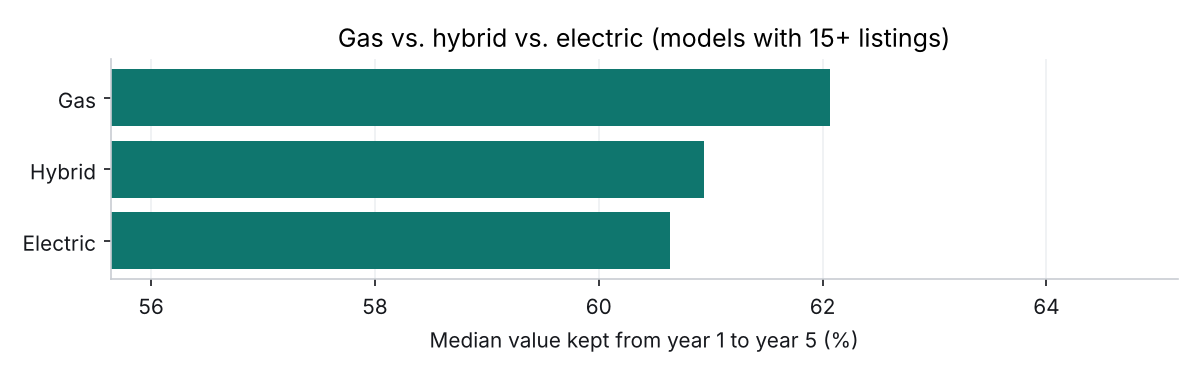
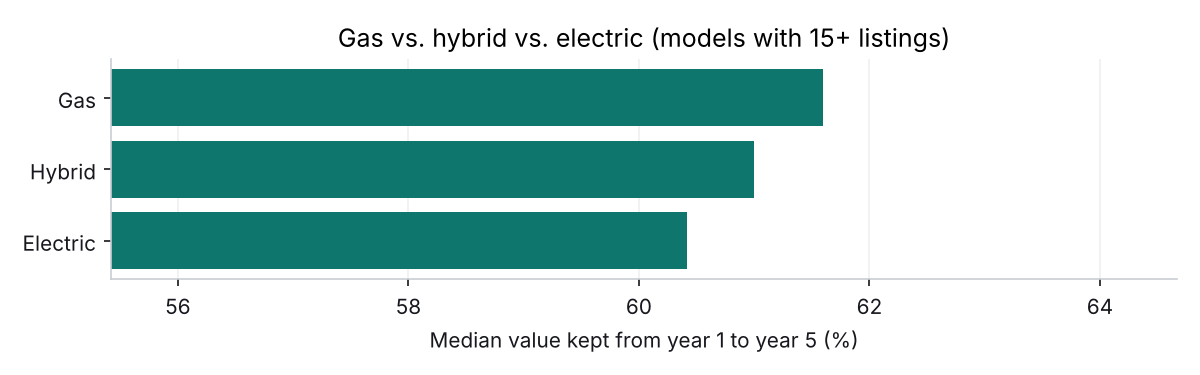
Treat a missing trim as the base trim, per review
An independent review found that missing trims were mishandled. AutoTrader
often lists a base car's trim as just 'AWD' or '4MATIC Sedan', which
normalizes to no trim, and that group was ignored:

- The default curve skipped it even when it was the most common, so a
  Lexus RX 350 (92 of 138 unlisted) used 'Premium', and a Land Cruiser
  used a single '1958' listing. typical_specs now counts it and can pick
  it; --trim base selects it.
- New-car MSRPs with no trim were dropped by groupby, so models like the
  Mercedes GLC 300 lost their real MSRP. Keep them (dropna=False) and
  match missing to missing.
- Marketcheck's 'Base' and trims that are only symbols ('4MATIC+' -> '+')
  also count as base now.
- prepare_features no longer crashes on an all-NaN float trim column.
- --trim '' is an error instead of being ignored.

Re-ran clean, train and analyze: average error $2,530, Porsche Cayenne
and BMW X5 now worst. README and findings updated to match, and an
unverifiable side-by-side number was removed. 7 new tests.

Claude-Session: https://claude.ai/code/session_01EFFq9JD9q8jUQi8YqvmX4s

diff --git a/src/depreciation.py b/src/depreciation.py
@@ -54,33 +54,55 @@ def find_model(listings: pd.DataFrame, make: str, model: str) -> tuple[str, str]
     raise ValueError(f"No listings for {make} {model}.{hint}")
 
 
+BASE = "Base"  # how a missing (base or unlisted) trim is shown and typed
+
+
+def trim_label(trim: str | None) -> str:
+    return BASE if pd.isna(trim) else trim
+
+
+def same_trim(column: pd.Series, trim: str | None) -> pd.Series:
+    """Rows with this trim. None matches base / unlisted trims."""
+    return column.isna() if pd.isna(trim) else column == trim
+
+
 def trims_for(listings: pd.DataFrame, make: str, model: str) -> pd.Series:
-    """How many listings each trim of a model has, most common first."""
-    cars = listings[(listings["make"] == make) & (listings["model"] == model)]
-    return cars["trim"].value_counts()
+    """How many listings each trim of a model has, most common first.
 
-
-def find_trim(listings: pd.DataFrame, make: str, model: str, trim: str) -> str:
-    """Match what the user typed ("xle") to a trim name in the data ("XLE")."""
-    trims = trims_for(listings, make, model)
-    for name in trims.index:
-        if name.lower() == trim.lower():
-            return name
-    options = ", ".join(f"{name} ({count})" for name, count in trims.head(12).items())
-    raise ValueError(f"No {make} {model} listings with trim {trim}. "
-                     f"Trims with the most listings: {options or 'none recorded'}")
-
-
-def typical_specs(listings: pd.DataFrame, make: str, model: str, trim: str | None = None) -> dict:
-    """The most common trim, body, drivetrain and fuel type for a model
-    (e.g. RAV4 -> XLE, SUV, AWD, Gas). Pass `trim` to describe that trim instead.
+    Base / unlisted trims are counted too, under the name "Base".
     """
     cars = listings[(listings["make"] == make) & (listings["model"] == model)]
-    if trim is None:
-        common = cars["trim"].mode()
-        trim = common.iloc[0] if not common.empty else None
-    if trim is not None:
-        cars = cars[cars["trim"] == trim]
+    return cars["trim"].fillna(BASE).value_counts()
+
+
+def find_trim(listings: pd.DataFrame, make: str, model: str, trim: str) -> str | None:
+    """Match what the user typed ("xle") to a trim name in the data ("XLE").
+
+    "base" means the base / unlisted trim and returns None.
+    """
+    trims = trims_for(listings, make, model)
+    for name in trims.index:
+        if name.lower() == trim.strip().lower():
+            return None if name == BASE else name
+    options = ", ".join(f"{name} ({count})" for name, count in trims.head(12).items())
+    raise ValueError(f"No {make} {model} listings with trim {trim}. "
+                     f"Trims with the most listings: {options}")
+
+
+MOST_COMMON = object()  # default for typical_specs: pick the model's most common trim
+
+
+def typical_specs(listings: pd.DataFrame, make: str, model: str, trim=MOST_COMMON) -> dict:
+    """The most common trim, body, drivetrain and fuel type for a model
+    (e.g. RAV4 -> XLE, SUV, AWD, Gas). Pass `trim` to describe that trim instead
+    (None = base / unlisted).
+    """
+    cars = listings[(listings["make"] == make) & (listings["model"] == model)]
+    if trim is MOST_COMMON:
+        # A base / unlisted trim can be the most common one (most Lexus RX 350s).
+        trim = cars["trim"].value_counts(dropna=False).index[0]
+        trim = None if pd.isna(trim) else trim
+    cars = cars[same_trim(cars["trim"], trim)]
     specs = {"make": make, "model": model, "trim": trim}
     for column in ("body", "drivetrain", "fuel"):
         specs[column] = cars[column].mode().iloc[0]
@@ -106,6 +128,7 @@ def typical_first_year_value(listings: pd.DataFrame, new_prices: pd.DataFrame) -
 
     Used to estimate the new price for trims with no new listings in the data.
     """
+    # Base / unlisted trims match each other here: pandas joins missing keys together.
     nearly_new = listings[listings["age"] <= 1].merge(new_prices, on=["make", "model", "trim"])
     return float((nearly_new["value"] / nearly_new["new_price"]).median())
 
@@ -119,7 +142,7 @@ def new_price_for(new_prices: pd.DataFrame, curve: pd.DataFrame, specs: dict,
     """
     match = new_prices[(new_prices["make"] == specs["make"])
                        & (new_prices["model"] == specs["model"])
-                       & (new_prices["trim"] == specs["trim"])]
+                       & same_trim(new_prices["trim"], specs["trim"])]
     if not match.empty:
         return float(match.iloc[0]["new_price"]), "average MSRP of new listings of this trim"
     estimate = float(curve["value"].iloc[0]) / first_year_share

diff --git a/src/predict.py b/src/predict.py
@@ -17,6 +17,7 @@ from src.depreciation import (
     new_price_for,
     ownership_cost,
     sweet_spot,
+    trim_label,
     trims_for,
     typical_first_year_value,
     typical_specs,
@@ -45,13 +46,14 @@ def main():
     listings, new_prices, bundle = load_data()
     try:
         make, model = find_model(listings, args.make, args.model)
-        trim = find_trim(listings, make, model, args.trim) if args.trim else None
+        if args.trim is not None:
+            trim = find_trim(listings, make, model, args.trim)
     except ValueError as error:
         parser.exit(1, f"{error}\n")
 
     yearly_miles = args.miles if args.miles is not None else miles_per_year(listings)
-    typical = typical_specs(listings, make, model)
-    specs = typical_specs(listings, make, model, trim) if trim else typical
+    specs = (typical_specs(listings, make, model, trim) if args.trim is not None
+             else typical_specs(listings, make, model))
     curve = value_curve(bundle, specs, yearly_miles)
     new_price, source = new_price_for(new_prices, curve, specs,
                                       typical_first_year_value(listings, new_prices))
@@ -61,12 +63,13 @@ def main():
     n_listings = ((listings["make"] == make) & (listings["model"] == model)).sum()
     trims = trims_for(listings, make, model)
 
-    name = f"{make} {model} {specs['trim']}" if specs["trim"] else f"{make} {model}"
-    print(f"\n{name}  ({specs['body']}, {specs['drivetrain']}, {specs['fuel']})")
-    trim_note = f", {trims.get(specs['trim'], 0)} of them this trim" if specs["trim"] else ""
-    print(f"Based on {n_listings} listings{trim_note}, {yearly_miles:,.0f} miles/year")
-    if not args.trim and len(trims) > 1:
-        others = ", ".join(t for t in trims.index[:6] if t != specs["trim"])
+    label = trim_label(specs["trim"])
+    n_trim = trims.get(label, 0)
+    print(f"\n{make} {model} {label}  ({specs['body']}, {specs['drivetrain']}, {specs['fuel']})")
+    print(f"Based on {n_listings} listings, {n_trim} of them this trim, "
+          f"{yearly_miles:,.0f} miles/year")
+    if args.trim is None and len(trims) > 1:
+        others = ", ".join(t for t in trims.index[:6] if t != label)
         print(f"Most common trim shown. Others: {others}  (use --trim)")
     print(f"New price: ${new_price:,.0f}  ({source})\n")
 
@@ -88,7 +91,7 @@ def main():
     print(f"  {buy_spot:<20}${cost_spot:,.0f}/yr  (saves ${cost_new - cost_spot:,.0f}/yr)")
     if n_listings < 40:
         print("\nNote: fewer than 40 listings for this model, so treat the curve as rough.")
-    elif args.trim and trims.get(specs["trim"], 0) < 15:
+    elif args.trim is not None and n_trim < 15:
         print("\nNote: fewer than 15 listings for this trim, so its curve leans on similar "
               "cars and is rougher than the model's.")
 

diff --git a/tests/test_depreciation.py b/tests/test_depreciation.py
@@ -73,8 +73,18 @@ def test_typical_specs_work_when_no_trim_is_recorded():
     assert typical_specs(listings, "Honda", "Civic")["trim"] is None
 
 
+def test_typical_specs_can_pick_the_base_trim_when_it_is_most_common():
+    # Two Civics: one without a listed trim, one EX. Add another base Civic so base wins.
+    listings = pd.concat([LISTINGS, LISTINGS.iloc[[4]]])
+    assert typical_specs(listings, "Honda", "Civic")["trim"] is None
+
+
 def test_find_trim_ignores_capitalization():
     assert find_trim(LISTINGS, "Toyota", "RAV4", "xle") == "XLE"
+
+
+def test_find_trim_base_means_no_listed_trim():
+    assert find_trim(LISTINGS, "Honda", "Civic", "base") is None
 
 
 def test_find_trim_lists_the_trims_it_does_have():
@@ -120,6 +130,19 @@ def test_new_price_is_estimated_when_there_are_no_new_listings():
     price, source = new_price_for(new_prices, curve, specs, first_year_share=0.8)
     assert price == pytest.approx(30_000)  # $24,000 at age 1 is 80% of $30,000
     assert "estimated" in source
+
+
+def test_base_trim_uses_the_base_trim_msrp():
+    new_prices = pd.DataFrame({"make": ["Honda", "Honda"], "model": ["Civic", "Civic"],
+                               "trim": [None, "EX"], "new_price": [25_000, 30_000]})
+    curve = pd.DataFrame({"age": [1, 2], "value": [20_000, 18_000]})
+    specs = {"make": "Honda", "model": "Civic", "trim": None}
+    assert new_price_for(new_prices, curve, specs, first_year_share=0.8)[0] == 25_000
+
+
+def test_value_curve_works_for_the_base_trim():
+    specs = typical_specs(LISTINGS, "Honda", "Civic", trim=None)
+    assert value_curve(BUNDLE, specs, yearly_miles=12_000)["value"].is_monotonic_decreasing
 
 
 def test_typical_first_year_value_compares_nearly_new_cars_to_msrp():

diff --git a/src/clean.py b/src/clean.py
@@ -57,12 +57,18 @@ NOT_TRIM = re.compile(
 
 
 def simplify_trim(value) -> str | None:
-    """Trim name without drivetrain or body words ("XLE AWD" -> "XLE"). None if nothing is left."""
+    """Trim name without drivetrain or body words ("XLE AWD" -> "XLE").
+
+    None means base or unlisted: AutoTrader often lists a base car's trim as just "AWD"
+    or "4MATIC Sedan", and Marketcheck calls it "Base", so all of those become None.
+    """
     if not isinstance(value, str):
         return None
     text = NOT_TRIM.sub(" ", value)
     text = re.sub(r"\s+", " ", text).strip(" -")
-    return text or None
+    if text.lower() == "base" or not re.search(r"[A-Za-z0-9]", text):
+        return None
+    return text
 
 
 def simplify_fuel(value) -> str:
@@ -88,7 +94,8 @@ def clean_autotrader(raw: pd.DataFrame) -> tuple[pd.DataFrame, pd.DataFrame]:
     new = raw[(raw["listingType"] == "New") & (raw["msrp"] > 0)]
     new_prices = (
         new.assign(trim=new["trim"].map(simplify_trim))
-        .groupby(["makeName", "modelName", "trim"])["msrp"]
+        # dropna=False keeps base / unlisted trims (None), which are often the most common.
+        .groupby(["makeName", "modelName", "trim"], dropna=False)["msrp"]
         .agg(new_price="median", new_listings="count")
         .reset_index()
         .rename(columns={"makeName": "make", "modelName": "model"})

diff --git a/tests/test_pipeline.py b/tests/test_pipeline.py
@@ -34,6 +34,7 @@ def test_fuel_labels_from_both_sources_match(raw, expected):
     ("XLE", "XLE"), ("XLE AWD", "XLE"), ("SE Sedan 4D", "SE"), ("4MATIC Coupe", None),
     ("AWD 2.5 S", "2.5 S"), ("SH-AWD", "SH"), ("Unlimited Rubicon 4xe", "Unlimited Rubicon 4xe"),
     ("xDrive40i", "xDrive40i"), ("FWD", None), (None, None),
+    ("Base", None), ("4MATIC+", None),  # base trims and leftover symbols mean "no trim"
 ])
 def test_trim_drops_drivetrain_and_body_words(raw, expected):
     assert simplify_trim(raw) == expected
@@ -63,6 +64,15 @@ def test_rare_models_and_trims_become_other():
     # A missing trim stays missing instead of being lumped in with rare trims.
     assert features["trim"].tolist()[:2] == ["SE", "Other"]
     assert pd.isna(features["trim"].iloc[2])
+
+
+def test_features_handle_a_trim_column_with_no_trims_at_all():
+    cars = pd.DataFrame({
+        "make": ["Toyota"], "model": ["Camry"], "trim": [float("nan")], "body": ["Sedan"],
+        "drivetrain": ["FWD"], "fuel": ["Gas"], "age": [3], "mileage": [30e3],
+    })
+    features = prepare_features(cars, known_models={"Toyota Camry"}, known_trims={"SE"})
+    assert pd.isna(features["trim"].iloc[0])
 
 
 def test_sweet_spot_is_after_the_steep_early_drop():

diff --git a/src/features.py b/src/features.py
@@ -37,6 +37,7 @@ def prepare_features(cars: pd.DataFrame, known_models: set[str],
     A missing trim stays missing (the model treats it as its own category).
     """
     features = cars[FEATURES].copy()
+    features["trim"] = features["trim"].astype(object)  # an all-missing column could be float
     full_name = cars["make"] + " " + cars["model"]
     features.loc[~full_name.isin(known_models), "model"] = "Other"
     rare_trim = features["trim"].notna() & ~features["trim"].isin(known_trims)

diff --git a/README.md b/README.md
@@ -19,13 +19,13 @@ command-line tool to look up any car.
   its new price on average, so roughly 20% disappears in year one.
 - **Buying at the sweet spot cut the yearly cost of ownership roughly in half** for 5 of
   the 6 example models. For a
-  Toyota Camry kept 3 years, you'd lose about $4,500/year buying new vs. about
-  $2,400/year buying it 2 years old.
+  Toyota Camry kept 3 years, you'd lose about $4,400/year buying new vs. about
+  $2,300/year buying it 2 years old.
 - **Toyota holds value best.** Tacoma, Corolla and 4Runner keep 75-78% of their
-  value from year 1 to year 5. **Luxury SUVs lose the most**: a Porsche Macan or Cayenne
-  keeps 46%.
-- **Electric cars depreciate about the same as gas cars** (61% vs. 62% kept from year 1
-  to 5). Only 14 electric models had enough data, so this is a weak signal either way.
+  value from year 1 to year 5. **Luxury SUVs lose the most**: a Porsche Cayenne keeps 46%
+  and a BMW X5 47%.
+- **Electric cars depreciate a little faster than gas cars** (60% vs. 62% kept from year 1
+  to 5). Only 14 electric models had enough data, so this is a weak signal.
 
 ![Depreciation curves](reports/figures/example_curves.png)
 
@@ -43,10 +43,10 @@ mileage. Tested on 3,294 cars it never saw during training:
 |---|---|---|---|
 | Median guess (baseline) | $13,862 | 38.4% | -0.05 |
 | Linear regression (baseline) | $3,433 | 7.9% | 0.89 |
-| **Gradient boosting** | **$2,542** | **5.6%** | **0.93** |
+| **Gradient boosting** | **$2,530** | **5.6%** | **0.93** |
 
 Adding **trim level** (a base Camry LE vs. a sporty XSE, or an F150 XL vs. a Raptor) cut the
-average error by 28%, from $3,532 to $2,542, and put 47% of estimates inside Kelley Blue
+average error by 28%, from $3,532 to $2,530, and put 47% of estimates inside Kelley Blue
 Book's fair price range, up from 37%.
 
 Design choices:
@@ -54,9 +54,9 @@ Design choices:
   miss matters more on a $10,000 car than on an $80,000 one.
 - **Trim names are shared across brands.** "Limited" or "Platinum" means a well-equipped
   car at Toyota, Ford or Jeep, so the model learns from all of them. In a side-by-side test
-  this beat treating every model + trim pair as its own category ($2,508 vs. $2,950 average
-  error). Drivetrain and body words are stripped first, so "XLE AWD" and "XLE" are the same
-  trim.
+  this was more accurate than treating every model + trim pair as its own category.
+  Drivetrain and body words are stripped first, so "XLE AWD" and "XLE" are the same trim,
+  and listings with no real trim name ("AWD", "4MATIC Sedan", "Base") count as the base trim.
 - **Monotonic constraints:** value can only go *down* as age and mileage go up. Without
   this, noise could make a 6-year-old car "worth more" than a 5-year-old one.
 - **Smoothed curves:** each model's predictions are fit with a constant-percentage
@@ -91,17 +91,18 @@ Based on 244 listings, 101 of them this trim, 10,293 miles/year
 Most common trim shown. Others: LE, XLE Premium, Limited, XSE, SE  (use --trim)
 
  Age     Miles      Value  % of new  Lost that year
-   0         0  $  48,078      100%
-   1    10,293  $  38,541       80%          $9,537
-   2    20,585  $  35,315       73%          $3,227  <- sweet spot
-   3    30,878  $  32,358       67%          $2,957
+   0         0  $  47,856      100%
+   1    10,293  $  38,521       80%          $9,335
+   2    20,585  $  35,312       74%          $3,209  <- sweet spot
+   3    30,878  $  32,371       68%          $2,941
    ...
 Keeping it 3 years, average value lost per year:
-  Buy new:            $5,240/yr
-  Buy 2 years old:    $2,716/yr  (saves $2,524/yr)
+  Buy new:            $5,162/yr
+  Buy 2 years old:    $2,703/yr  (saves $2,458/yr)
 ```
 
-Options: `--trim Limited` (a specific trim, default is the most common one),
+Options: `--trim Limited` (a specific trim, default is the most common one; `--trim base`
+for listings without a named trim),
 `--hold 5` (years you'll keep it), `--miles 15000` (miles you drive per year).
 
 ## Run the pipeline
@@ -153,9 +154,9 @@ reports/           Charts, findings and accuracy metrics (generated)
 - **New prices are today's prices.** A 2018 car cost less new than a 2026 one, so
   long-term depreciation is somewhat overstated.
 - **Trim names are messy.** Sellers type them freely ("AWD 2.5 S w/ Preferred Package"),
-  so rare spellings fall into an "Other" group. Rankings and charts use each model's most
-  common trim.
-- **New prices per trim are sparse.** Only 294 trims had new listings. For the rest, the new
+  so rare spellings fall into an "Other" group, and "Base" also covers listings whose trim
+  wasn't given. Rankings and charts use each model's most common trim.
+- **New prices per trim are sparse.** Only 327 trims had new listings. For the rest, the new
   price is estimated from the car's 1-year-old value and the typical 20% first-year drop.
 - **US data.** The pipeline is built so a different market (for example Ontario
   listings) could be swapped in through `download.py` and `clean.py`.

diff --git a/reports/findings.md b/reports/findings.md
@@ -9,12 +9,12 @@ _Generated by `python -m src.analyze`._
 
 | Car | New price | Sweet spot | Value at 5 yrs | Cost/yr buying new* | Cost/yr at sweet spot* |
 |---|---|---|---|---|---|
-| Toyota Camry | $40,717 | 2 yrs | 56% | $4,487 | $2,355 |
-| Honda CR-V | $38,750 | 6 yrs | 69% | $2,383 | $1,778 |
-| Ford F150 | $62,050 | 2 yrs | 55% | $6,948 | $3,712 |
-| Jeep Wrangler | $54,905 | 1 yr | 47% | $7,950 | $2,900 |
-| Tesla Model Y | $55,892 | 3 yrs | 49% | $7,013 | $3,647 |
-| Ford Mustang Mach-E | $47,616 | 3 yrs | 49% | $5,953 | $3,092 |
+| Toyota Camry | $40,292 | 2 yrs | 56% | $4,375 | $2,309 |
+| Honda CR-V | $38,750 | 6 yrs | 69% | $2,401 | $1,799 |
+| Ford F150 | $62,228 | 3 yrs | 55% | $6,967 | $3,452 |
+| Jeep Wrangler | $54,905 | 1 yr | 47% | $7,964 | $2,909 |
+| Tesla Model Y | $56,401 | 4 yrs | 48% | $7,108 | $3,298 |
+| Ford Mustang Mach-E | $46,629 | 3 yrs | 50% | $5,715 | $2,985 |
 
 _*Average value lost per year when keeping the car for 3 years._
 
@@ -24,16 +24,16 @@ _*Average value lost per year when keeping the car for 3 years._
 
 | Best | Kept yr 1-5 | Worst | Kept yr 1-5 |
 |---|---|---|---|
-| Toyota Tacoma | 78% | Porsche Macan | 46% |
-| Toyota Corolla | 76% | Porsche Cayenne | 46% |
-| Toyota 4Runner | 75% | Land Rover Range Rover Sport | 47% |
-| Ford Ranger | 74% | BMW X5 | 47% |
-| Toyota Tundra | 74% | Ford Expedition | 52% |
-| Honda Accord | 73% | Mercedes-Benz GLE 350 | 52% |
-| Chevrolet Silverado 1500 | 73% | Volvo XC90 | 52% |
+| Toyota Tacoma | 78% | Porsche Cayenne | 46% |
+| Toyota Corolla | 75% | BMW X5 | 47% |
+| Toyota 4Runner | 75% | Land Rover Range Rover Sport | 48% |
+| Ford Ranger | 74% | Porsche Macan | 52% |
+| Toyota Tundra | 74% | Volvo XC90 | 52% |
+| Honda Accord | 74% | Mercedes-Benz GLE 350 | 52% |
 | RAM 1500 | 73% | Nissan Pathfinder | 53% |
-| Honda CR-V | 72% | Audi Q7 | 53% |
-| Subaru Crosstrek | 72% | Mercedes-Benz GLC 300 | 54% |
+| Subaru Crosstrek | 72% | Audi Q7 | 53% |
+| Chevrolet Silverado 1500 | 72% | Ford Expedition | 53% |
+| Honda CR-V | 72% | Mercedes-Benz GLC 300 | 54% |
 
 ![Best and worst models](figures/best_worst_models.png)
 
@@ -43,7 +43,7 @@ _*Average value lost per year when keeping the car for 3 years._
 |---|---|---|
 | Gas | 62% | 200 |
 | Hybrid | 61% | 5 |
-| Electric | 61% | 14 |
+| Electric | 60% | 14 |
 
 ![Fuel types](figures/fuel_types.png)
 
@@ -56,6 +56,6 @@ _*Average value lost per year when keeping the car for 3 years._
 Tested on **672** cars from a different source (Marketcheck dealer listings). For the **327** whose model was in the training data:
 
 - Median dealer price / model estimate: **1.10** (1.00 would be a perfect match; above 1 means dealers ask more than market value)
-- **55%** of estimates were within 15% of the real asking price
+- **54%** of estimates were within 15% of the real asking price
 
 ![Reality check](figures/reality_check.png)
